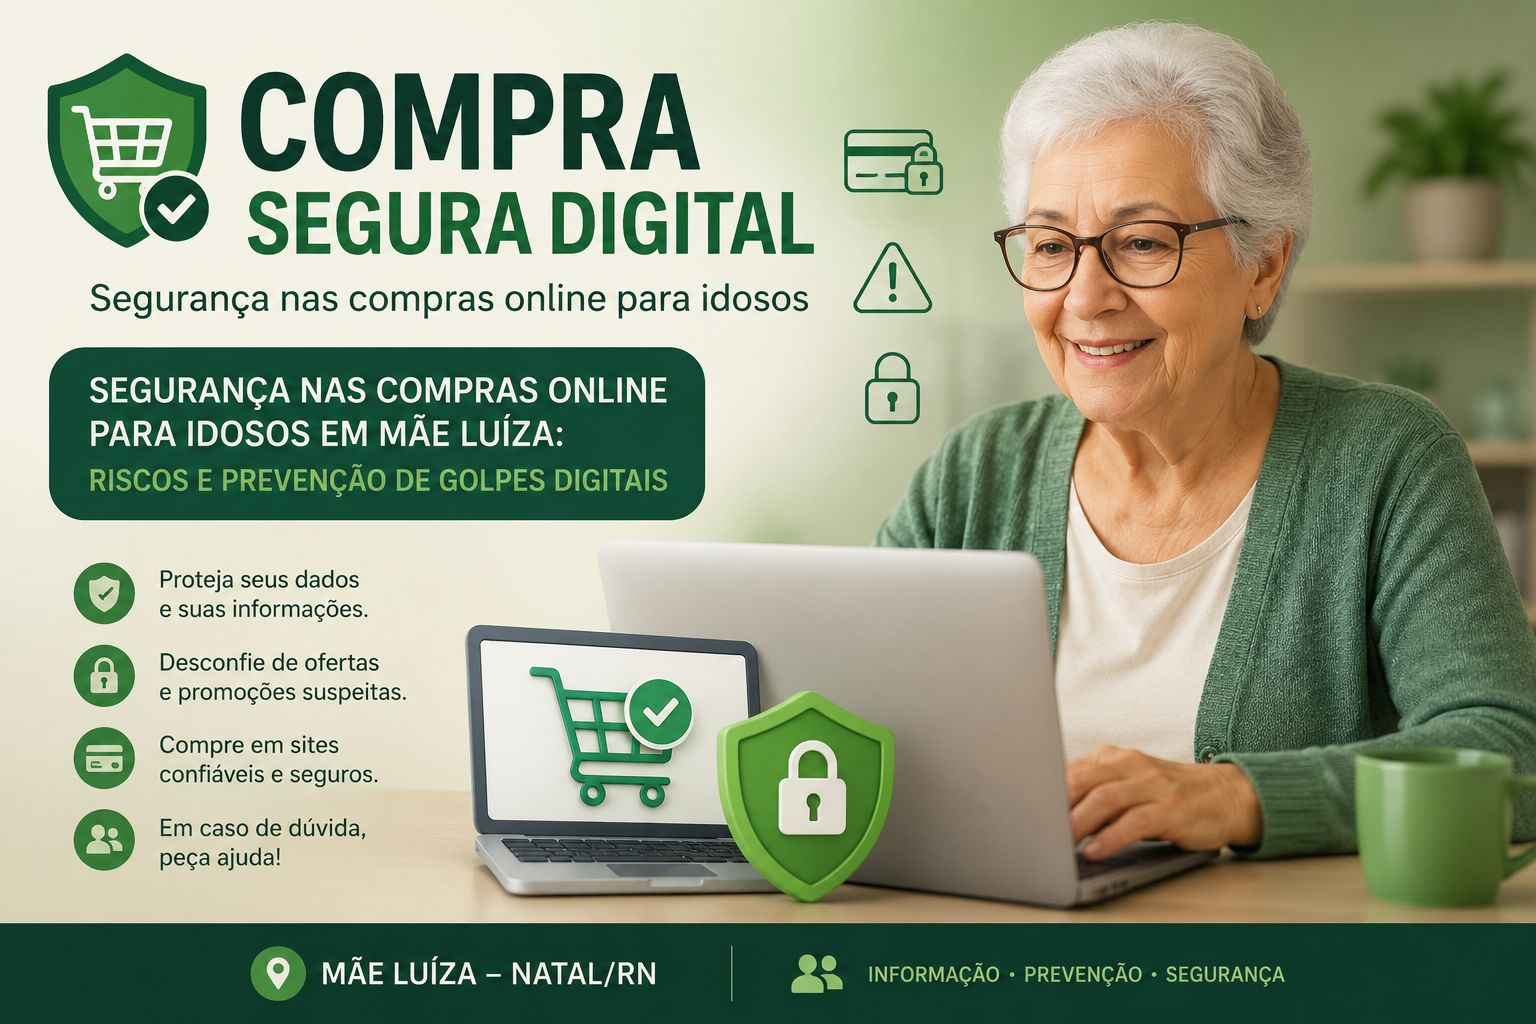
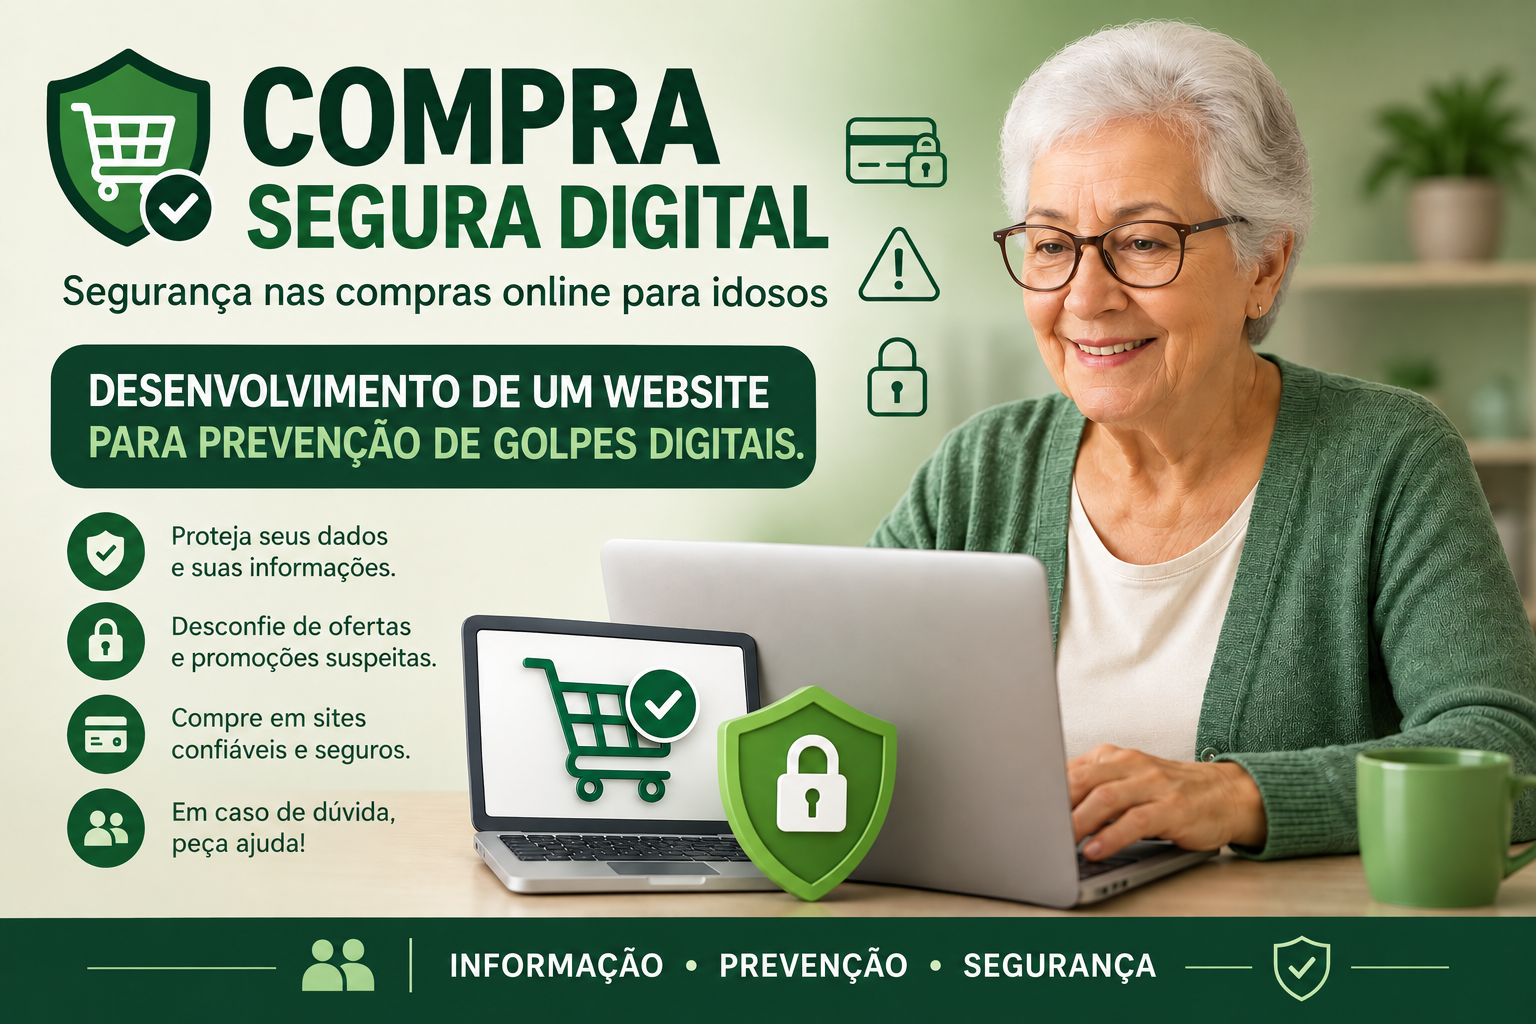
Add files via upload

diff --git a/sobre.html b/sobre.html
@@ -11,12 +11,12 @@
 <body>
 
 <div class="banner-capa">
-  <img src="capa.jpg" alt="Compra Segura Digital — Segurança nas compras online para idosos em Mãe Luíza" />
+  <img src="capa.jpg" alt="Compra Segura Digital — Segurança nas compras online para idosos" />
 </div>
 
 <header>
   <div class="header-top">
-    <span><i class="ti ti-map-pin" aria-hidden="true"></i> Mãe Luíza, Natal — RN</span>
+    <span><i class="ti ti-map-pin" aria-hidden="true"></i> Natal — RN</span>
     <span id="data-atual"></span>
   </div>
   <div class="header-main">
@@ -40,8 +40,8 @@
 
   <div class="bloco-info">
     <h3><i class="ti ti-school" aria-hidden="true"></i> Sobre o Projeto</h3>
-    <p>Este site foi desenvolvido como protótipo de TCC com o tema: <strong>Segurança nas Compras Online para Idosos em Mãe Luíza — Riscos e Prevenções de Golpes Digitais.</strong></p>
-    <p style="margin-top:12px;">O objetivo é oferecer um espaço digital acessível, com linguagem simples e dicas práticas, para que os idosos da comunidade de Mãe Luíza (Natal/RN) possam comprar pela internet com mais segurança e confiança.</p>
+    <p>Este site foi desenvolvido como protótipo de TCC com o tema: <strong>Segurança nas Compras Online para Idosos: Desenvolvimento de um Website para Prevenção de Golpes Digitais.</strong></p>
+    <p style="margin-top:12px;">O objetivo é oferecer um espaço digital acessível, com linguagem simples e dicas práticas, para que os idosos possam comprar pela internet com mais segurança e confiança.</p>
   </div>
 
   <div class="bloco-info">
@@ -49,17 +49,17 @@
     <p>Desenvolvido com carinho por:</p>
     <div class="grid-equipe">
       <div class="card-membro">
-        <div class="avatar-membro" style="background:var(--verde);">JG</div>
+        <div class="avatar-membro" style="background:var(--verde);">J</div>
         <h4>João Gabriel</h4>
         <p>Desenvolvimento e Conteúdo</p>
       </div>
       <div class="card-membro">
-        <div class="avatar-membro" style="background:var(--azul);">LU</div>
+        <div class="avatar-membro" style="background:var(--azul);">L</div>
         <h4>Luísa</h4>
         <p>Pesquisa e Design</p>
       </div>
       <div class="card-membro">
-        <div class="avatar-membro" style="background:#D4537E;">TA</div>
+        <div class="avatar-membro" style="background:#D4537E;">T</div>
         <h4>Tayná</h4>
         <p>Conteúdo e Revisão</p>
       </div>
@@ -67,13 +67,13 @@
   </div>
 
   <div class="bloco-info" style="border:2px solid var(--azul); background:var(--azul-claro);">
-    <h3 style="color:var(--azul);">📍 Foco da Comunidade</h3>
-    <p style="color:#042C53;">O projeto se concentra na comunidade de <strong>Mãe Luíza</strong>, bairro de Natal/RN, buscando empoderar os moradores idosos com conhecimento digital para evitar golpes e comprar com segurança.</p>
+    <h3 style="color:var(--azul);">📍 Foco do Projeto</h3>
+    <p style="color:#042C53;">O projeto busca empoderar os idosos com conhecimento digital para evitar golpes e comprar com segurança pela internet.</p>
   </div>
 </main>
 
 <footer>
-  <p>© 2026 <strong>Compra Segura Digital</strong> — TCC de João Gabriel, Luísa e Tayná · Mãe Luíza, Natal/RN</p>
+  <p>© 2026 <strong>Compra Segura Digital</strong> — TCC de João Gabriel, Luísa e Tayná · Natal/RN</p>
 </footer>
 
 <button id="btn-acessibilidade" onclick="togglePainel()" aria-label="Opções de acessibilidade" title="Acessibilidade">

diff --git a/compras.html b/compras.html
@@ -11,12 +11,12 @@
 <body>
 
 <div class="banner-capa">
-  <img src="capa.jpg" alt="Compra Segura Digital — Segurança nas compras online para idosos em Mãe Luíza" />
+  <img src="capa.jpg" alt="Compra Segura Digital — Segurança nas compras online para idosos" />
 </div>
 
 <header>
   <div class="header-top">
-    <span><i class="ti ti-map-pin" aria-hidden="true"></i> Mãe Luíza, Natal — RN</span>
+    <span><i class="ti ti-map-pin" aria-hidden="true"></i> Natal — RN</span>
     <span id="data-atual"></span>
   </div>
   <div class="header-main">
@@ -93,7 +93,7 @@
 </main>
 
 <footer>
-  <p>© 2026 <strong>Compra Segura Digital</strong> — TCC de João Gabriel, Luísa e Tayná · Mãe Luíza, Natal/RN</p>
+  <p>© 2026 <strong>Compra Segura Digital</strong> — TCC de João Gabriel, Luísa e Tayná · Natal/RN</p>
 </footer>
 
 <button id="btn-acessibilidade" onclick="togglePainel()" aria-label="Opções de acessibilidade" title="Acessibilidade">

diff --git a/dicas.html b/dicas.html
@@ -11,12 +11,12 @@
 <body>
 
 <div class="banner-capa">
-  <img src="capa.jpg" alt="Compra Segura Digital — Segurança nas compras online para idosos em Mãe Luíza" />
+  <img src="capa.jpg" alt="Compra Segura Digital — Segurança nas compras online para idosos" />
 </div>
 
 <header>
   <div class="header-top">
-    <span><i class="ti ti-map-pin" aria-hidden="true"></i> Mãe Luíza, Natal — RN</span>
+    <span><i class="ti ti-map-pin" aria-hidden="true"></i> Natal — RN</span>
     <span id="data-atual"></span>
   </div>
   <div class="header-main">
@@ -72,7 +72,7 @@
 </main>
 
 <footer>
-  <p>© 2026 <strong>Compra Segura Digital</strong> — TCC de João Gabriel, Luísa e Tayná · Mãe Luíza, Natal/RN</p>
+  <p>© 2026 <strong>Compra Segura Digital</strong> — TCC de João Gabriel, Luísa e Tayná · Natal/RN</p>
 </footer>
 
 <button id="btn-acessibilidade" onclick="togglePainel()" aria-label="Opções de acessibilidade" title="Acessibilidade">

diff --git a/golpes.html b/golpes.html
@@ -11,12 +11,12 @@
 <body>
 
 <div class="banner-capa">
-  <img src="capa.jpg" alt="Compra Segura Digital — Segurança nas compras online para idosos em Mãe Luíza" />
+  <img src="capa.jpg" alt="Compra Segura Digital — Segurança nas compras online para idosos" />
 </div>
 
 <header>
   <div class="header-top">
-    <span><i class="ti ti-map-pin" aria-hidden="true"></i> Mãe Luíza, Natal — RN</span>
+    <span><i class="ti ti-map-pin" aria-hidden="true"></i> Natal — RN</span>
     <span id="data-atual"></span>
   </div>
   <div class="header-main">
@@ -78,7 +78,7 @@
 </main>
 
 <footer>
-  <p>© 2026 <strong>Compra Segura Digital</strong> — TCC de João Gabriel, Luísa e Tayná · Mãe Luíza, Natal/RN</p>
+  <p>© 2026 <strong>Compra Segura Digital</strong> — TCC de João Gabriel, Luísa e Tayná · Natal/RN</p>
 </footer>
 
 <button id="btn-acessibilidade" onclick="togglePainel()" aria-label="Opções de acessibilidade" title="Acessibilidade">

diff --git a/index.html b/index.html
@@ -11,12 +11,12 @@
 <body>
 
 <div class="banner-capa">
-  <img src="capa.jpg" alt="Compra Segura Digital — Segurança nas compras online para idosos em Mãe Luíza" />
+  <img src="capa.jpg" alt="Compra Segura Digital — Segurança nas compras online para idosos" />
 </div>
 
 <header>
   <div class="header-top">
-    <span><i class="ti ti-map-pin" aria-hidden="true"></i> Mãe Luíza, Natal — RN</span>
+    <span><i class="ti ti-map-pin" aria-hidden="true"></i> Natal — RN</span>
     <span id="data-atual"></span>
   </div>
   <div class="header-main">
@@ -87,7 +87,7 @@
 </main>
 
 <footer>
-  <p>© 2026 <strong>Compra Segura Digital</strong> — TCC de João Gabriel, Luísa e Tayná · Mãe Luíza, Natal/RN</p>
+  <p>© 2026 <strong>Compra Segura Digital</strong> — TCC de João Gabriel, Luísa e Tayná · Natal/RN</p>
 </footer>
 
 <button id="btn-acessibilidade" onclick="togglePainel()" aria-label="Opções de acessibilidade" title="Acessibilidade">
